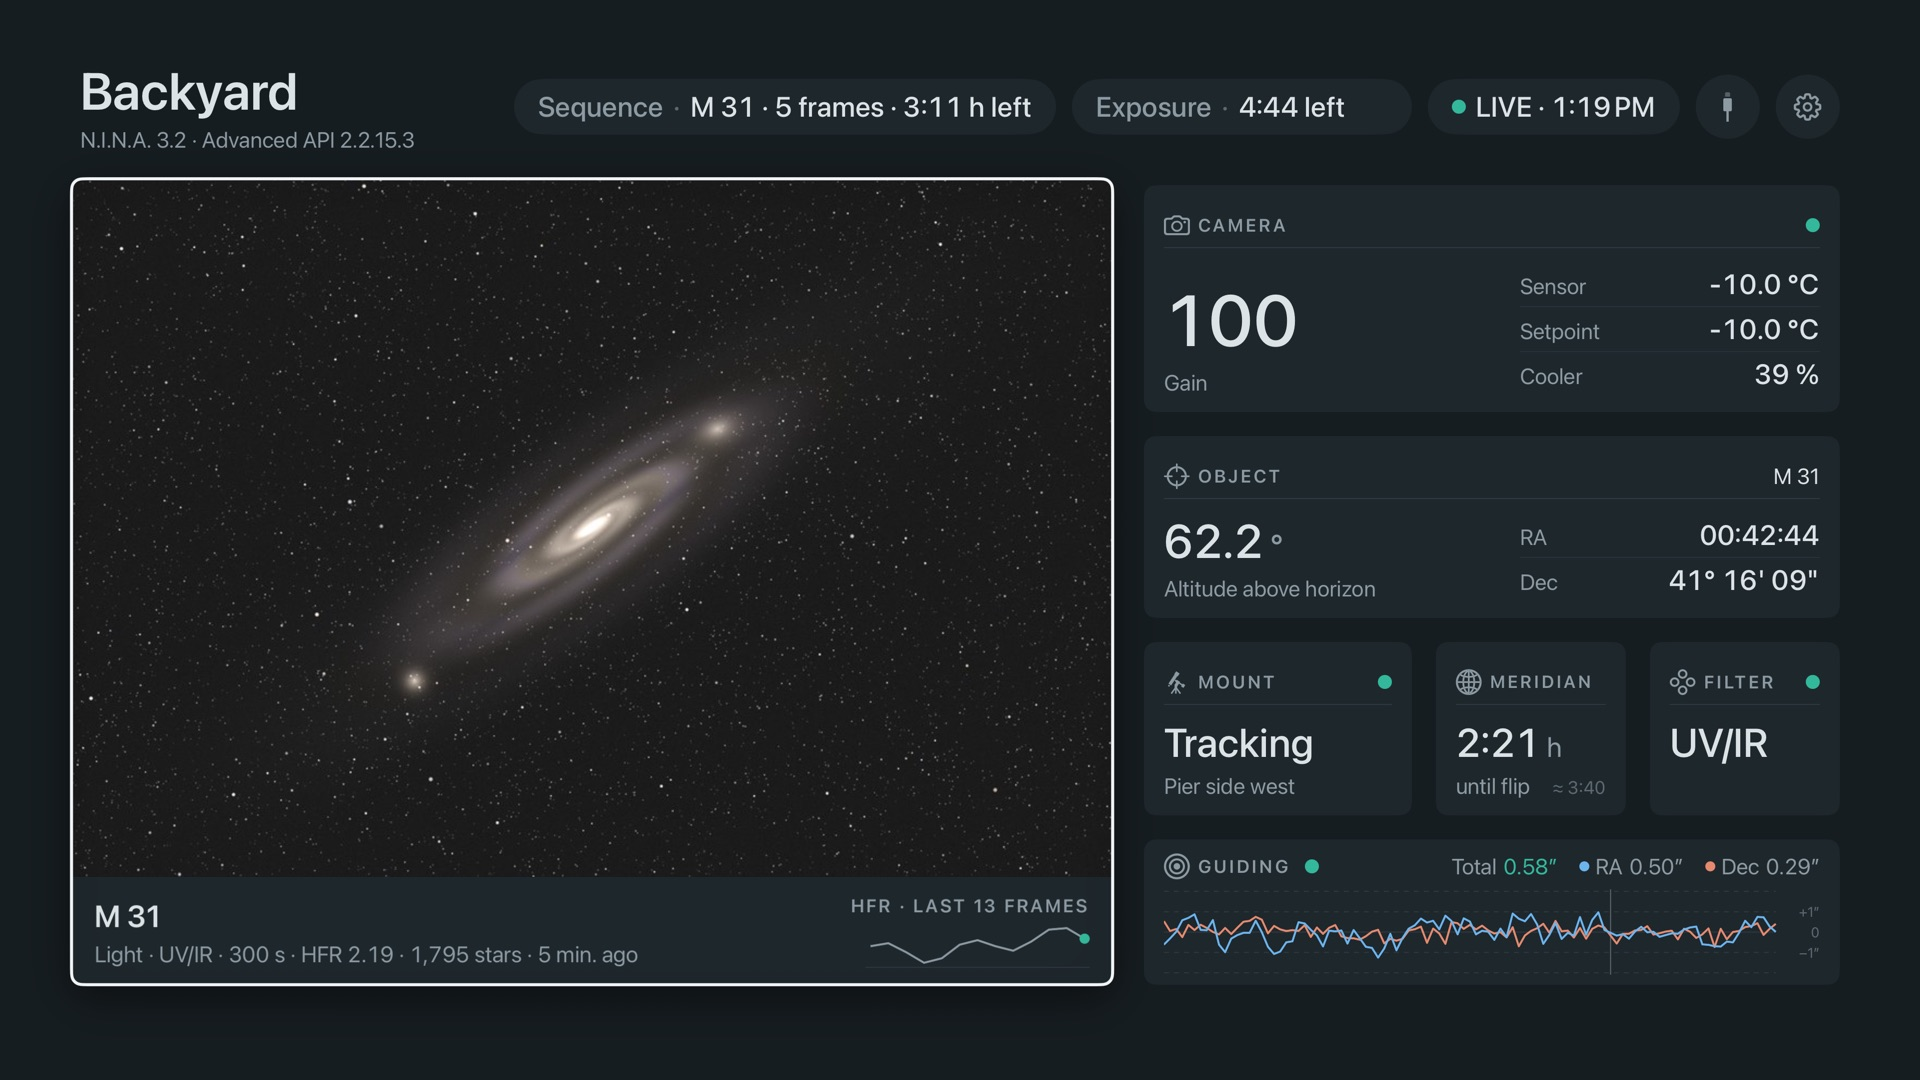
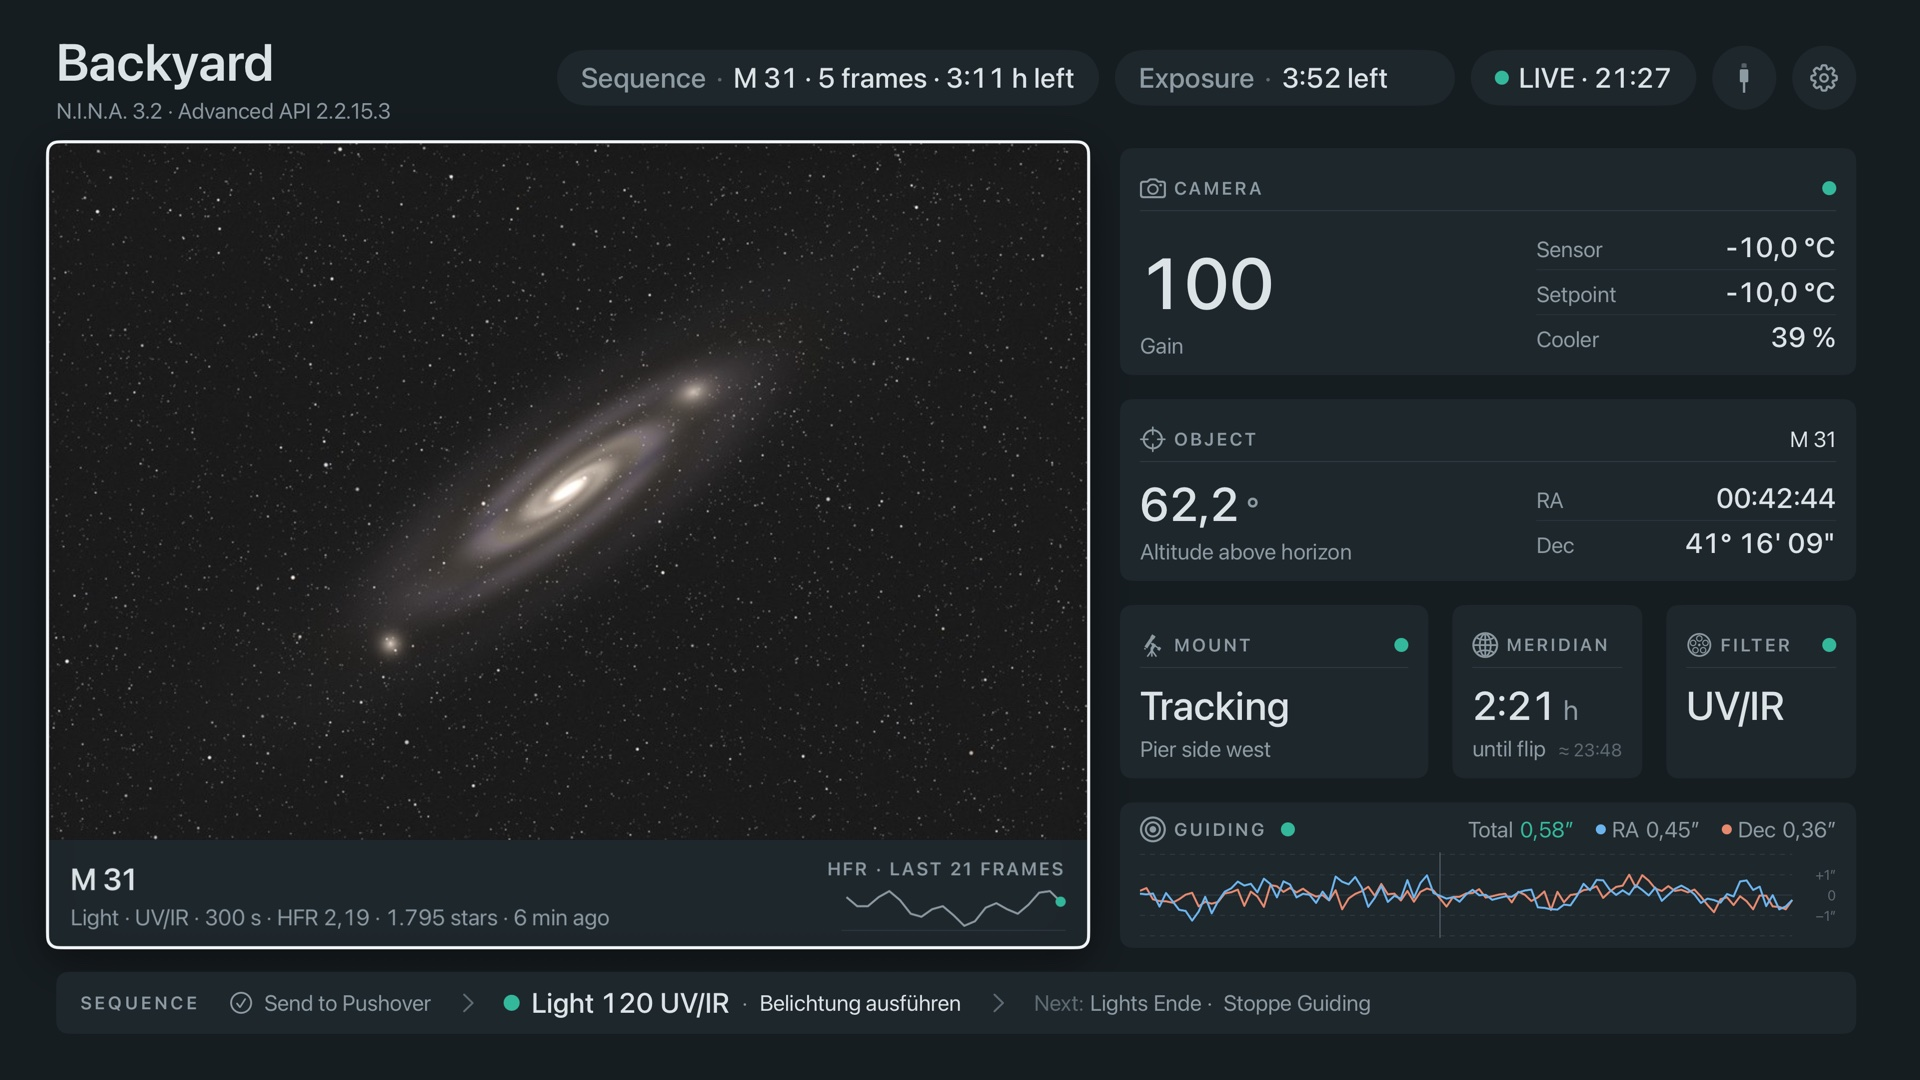
Docs: sequence strip and page – matrix, changelog, README, status
Claude-Session: https://claude.ai/code/session_018pUwQWsnrgoakVNdTaya8P

diff --git a/README.md b/README.md
@@ -18,7 +18,7 @@
 </p>
 
 <p align="center">
-  <img src="docs/assets/screenshots/overview.jpg" alt="Overview: newest frame of M 31 with HFR trend, camera cooling, object altitude and coordinates, mount, time to the meridian flip and filter, a guiding chart with total RMS, plus sequence progress and exposure countdown in the header" width="100%">
+  <img src="docs/assets/screenshots/overview.jpg" alt="Overview: newest frame of M 31 with HFR trend, camera cooling, object altitude and coordinates, mount, time to the meridian flip and filter, a guiding chart with total RMS, a sequence strip with last, current and next step, plus sequence progress and exposure countdown in the header" width="100%">
 </p>
 
 <p align="center"><sub>Every screenshot comes from the tvOS Simulator running against the bundled <a href="#try-it-without-a-telescope">demo server</a>: a procedural galaxy and sanitized test data, no real observatory.</sub></p>
@@ -41,7 +41,16 @@ One screen for the whole night, laid out for a TV across the room.
 - **Object:** altitude above the horizon and coordinates.
 - **Mount, meridian and filter** as compact tiles: tracking state and pier side, the **time to the meridian flip** with its approximate clock time, and the active filter.
 - **Guiding chart:** RA and Dec of the last guide steps with dither markers, and the **total RMS** in arcseconds coloured like a traffic light – green below 1″, yellow up to 2″, red above. The light turns red when the guide star is lost.
+- **Sequence strip:** the last step (✓, or ✕ if it failed), the current step with its container, and the next step. A click opens the sequence page.
 - **Focus starts on the image**, so one click opens it.
+
+### The sequence
+
+<p align="center">
+  <img src="docs/assets/screenshots/sequence.jpg" alt="Sequence page: the whole Advanced Sequence as a tree with a status per step, the running branch expanded on the current step" width="100%">
+</p>
+
+The whole Advanced Sequence as a tree, with a status per step. The running branch is expanded and the page opens on the current step; containers expand and collapse with a click. Under each step you see what N.I.N.A. reports: loop end and iterations, the dither interval, exposure time, type, gain, filter and temperature. Step names are shown exactly as N.I.N.A. sends them. The page is read-only.
 
 ### Full-screen viewer with stepped zoom
 

diff --git a/docs/status.md b/docs/status.md
@@ -4,7 +4,9 @@ Snapshot for picking up work on another machine. Last updated 2026-11-19 (M3 par
 
 ## Resume here
 
-- Branch `m3/guiding-overview`, **PR #18** open with green CI, waiting for the owner's review. Nothing is uncommitted.
+- Branch `m3/tv-feedback` (sequence strip and page, app version in Settings, filter wheel icon, build 6); the controller opens the PR. Nothing is uncommitted.
+- Device check on the TV with build 6 is still open: focus path image ⇄ strip ⇄ header, Menu back from the sequence page, and the sequence page opening on the current step with a long real sequence.
+- Earlier: branch `m3/guiding-overview`, **PR #18**, waiting for the owner's review.
 - After approval: merge #18, start M4 ([ADR 0005](adr/0005-m4-before-m3-part-2.md)); check the guiding chart on the Apple TV during the next guided night.
 - TestFlight build 5 is uploaded (2026-11-19; the first attempt on 2026-11-17 failed during an App Store Connect outage).
 - Archiving lets Xcode rewrite `App/Resources/Localizable.xcstrings` (reformatted, many keys marked `stale`, `HFR`/`Live` dropped). Do not commit that: `git restore App/Resources/Localizable.xcstrings`.
@@ -20,9 +22,9 @@ Snapshot for picking up work on another machine. Last updated 2026-11-19 (M3 par
 | M0 API feasibility | Done (PR #2, #3) |
 | M1 Skeleton & connections | Done (PR #10) |
 | M2 Overview & imaging | Done (PR #11, #13–#16): overview, viewer with zoom, ambient mode, devices and device details, sequence progress. Checked on Apple TV 4K with TestFlight build 4 |
-| M3 Guiding & alerts | Paused: part 1 (overview guiding chart, meridian tile) in review; part 2 waits for the capture night |
+| M3 Guiding & alerts | Paused: part 1 (overview guiding chart, meridian tile) in review; TV feedback (sequence strip and page, version, filter icon) on `m3/tv-feedback`, device check with build 6 open; part 2 waits for the capture night |
 | M4 Astronomy | Next, starts after #18 ([ADR 0005](adr/0005-m4-before-m3-part-2.md)) |
-| TestFlight | Build 5 (guiding chart) uploaded 2026-11-19 |
+| TestFlight | Build 5 (guiding chart) uploaded 2026-11-19; build 6 (sequence strip and page) is the candidate on `m3/tv-feedback`, PR to be opened |
 
 Details: [milestones](milestones.md), [changelog](../CHANGELOG.md).
 

diff --git a/docs/api-capability-matrix.md b/docs/api-capability-matrix.md
@@ -201,6 +201,10 @@ Two captures 4.5 min apart while a time-bound loop of 120 s lights ran ("loop un
 | `LoopCondition` | `Iterations` (target) and `CompletedIterations`, in both endpoints | "n/m" from the condition's own pair |
 | Unlocked reads | The plugin walks the live tree from an HTTP thread; an item that throws while serializing is silently dropped | A missing item is unknown; `json` is matched to `state` by index **and** name, else ignored |
 | Privacy | `json` contains the site's latitude, longitude and elevation (Alt/Az instructions) and file paths with the Windows user name | Sanitizer redacts them; fixtures reviewed |
+| Names | Plugin appends `_Container`, `_Condition`, `_Trigger`; unnamed containers are just `_Container`. Names are N.I.N.A.'s display names in its UI language | Suffix stripped; names shown as sent, never translated |
+| Between exposures (2026-11-19) | During download, dither or autofocus the exposure instruction is `CREATED` while its container stays `RUNNING` | Current step = first open instruction of the deepest running container |
+| Fields shown on the sequence page | `TargetTime` (conditions, wait instruction), `Iterations`/`CompletedIterations`, `Exposures`/`TargetExposures` (dither trigger), `ExposureTime`/`Type`/`Gain` (≥ 0), `Temperature`, `Filter` | Everything else ignored; coordinates and `FilePath` never read |
+| Dither trigger | Any trigger carrying `Exposures`/`TargetExposures` is shown as "Dither every n" (seen only on N.I.N.A.'s "Dither after exposures" trigger in the captures) | Interval from `TargetExposures` |
 
 
 ### Device list and full-resolution render (source review, 2026-11-16)

diff --git a/CHANGELOG.md b/CHANGELOG.md
@@ -12,9 +12,15 @@ All notable changes to this project are documented here. Format based on [Keep a
 - Capture night checklist for the open M3 captures (#5, #6, #7) and the device check of the guiding chart.
 - README: credits with author and community, as in the NINA Pocket Companion.
 - ADR 0005: M4 starts while M3 part 2 waits for live data; M5 follows M4.
+- Sequence strip on the overview: last step (✓, or ✕ when it failed), current step with its container, and the next step, from the existing `/sequence/json` poll. A click opens the sequence page.
+- Sequence page: the whole Advanced Sequence as a tree with status per step; the running branch is expanded and centred, containers expand and collapse with a click; loop end, iterations, dither interval and exposure settings under each step.
+- Settings: app version and build.
+- Filter wheel icon for the Filter tile and the device list, in outline style: housing ring, five filter cells and a hub.
+- TestFlight build 6 is the candidate for this feedback round.
 
 ### Changed (M3)
 - The Guiding tile is replaced by the Meridian tile; guiding lives in the chart.
+- Overview margins 56 px left/right and 36 px top/bottom (were Apple's 80/60 safe area), so the strip fits without shrinking the image.
 
 ### Added (M2)
 - Overview: newest frame with target, type, filter, exposure, HFR and stars; camera with sensor temperature, active setpoint, cooler power, gain and exposure countdown; mount with RA/Dec, altitude, pier side and state; filter and guider.

diff --git a/docs/milestones.md b/docs/milestones.md
@@ -68,6 +68,7 @@ Each milestone ends with a review; the next one starts only after approval. Exce
 
 - [x] Source review of `/equipment/guider/graph`, RMS and `TimeToMeridianFlip`; N.I.N.A.'s RMS definition (population standard deviation) – the N.I.N.A. half of #6
 - [x] Overview part 1: guiding chart with traffic-light total RMS, meridian tile replaces the guiding tile ([spec](superpowers/specs/2026-11-17-m3-guiding-overview-design.md))
+- [x] TV feedback after build 5: sequence strip and page, version, filter wheel icon ([spec](superpowers/specs/2026-11-19-m3-tv-feedback-design.md))
 - [ ] Device check of part 1 on Apple TV with a guided night ([capture night checklist](m3-capture-night.md))
 - [ ] PHD2 event stream (port 4400, listen only): `GuideStep`, dither, settle, star lost (#6)
 - [ ] N.I.N.A. WebSocket events: filter change, dither, autofocus (#7)
